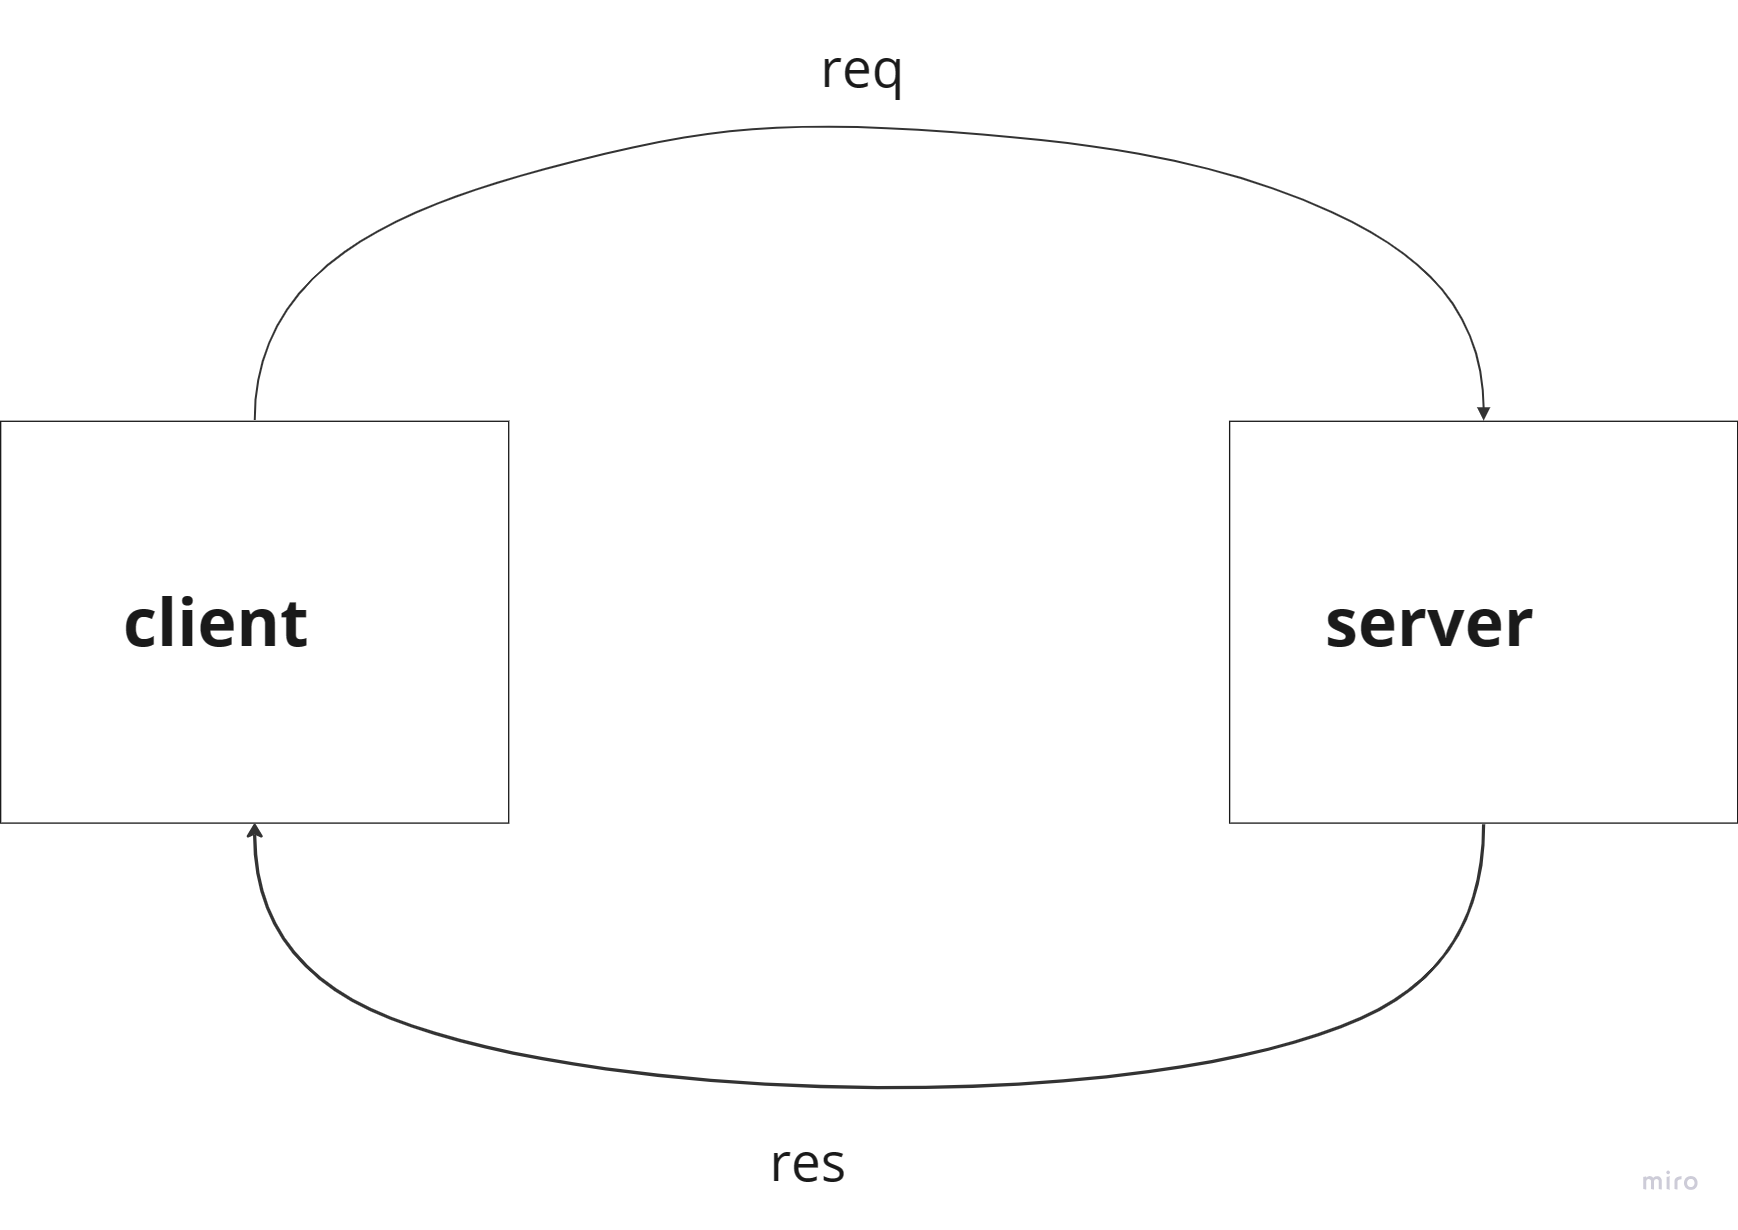
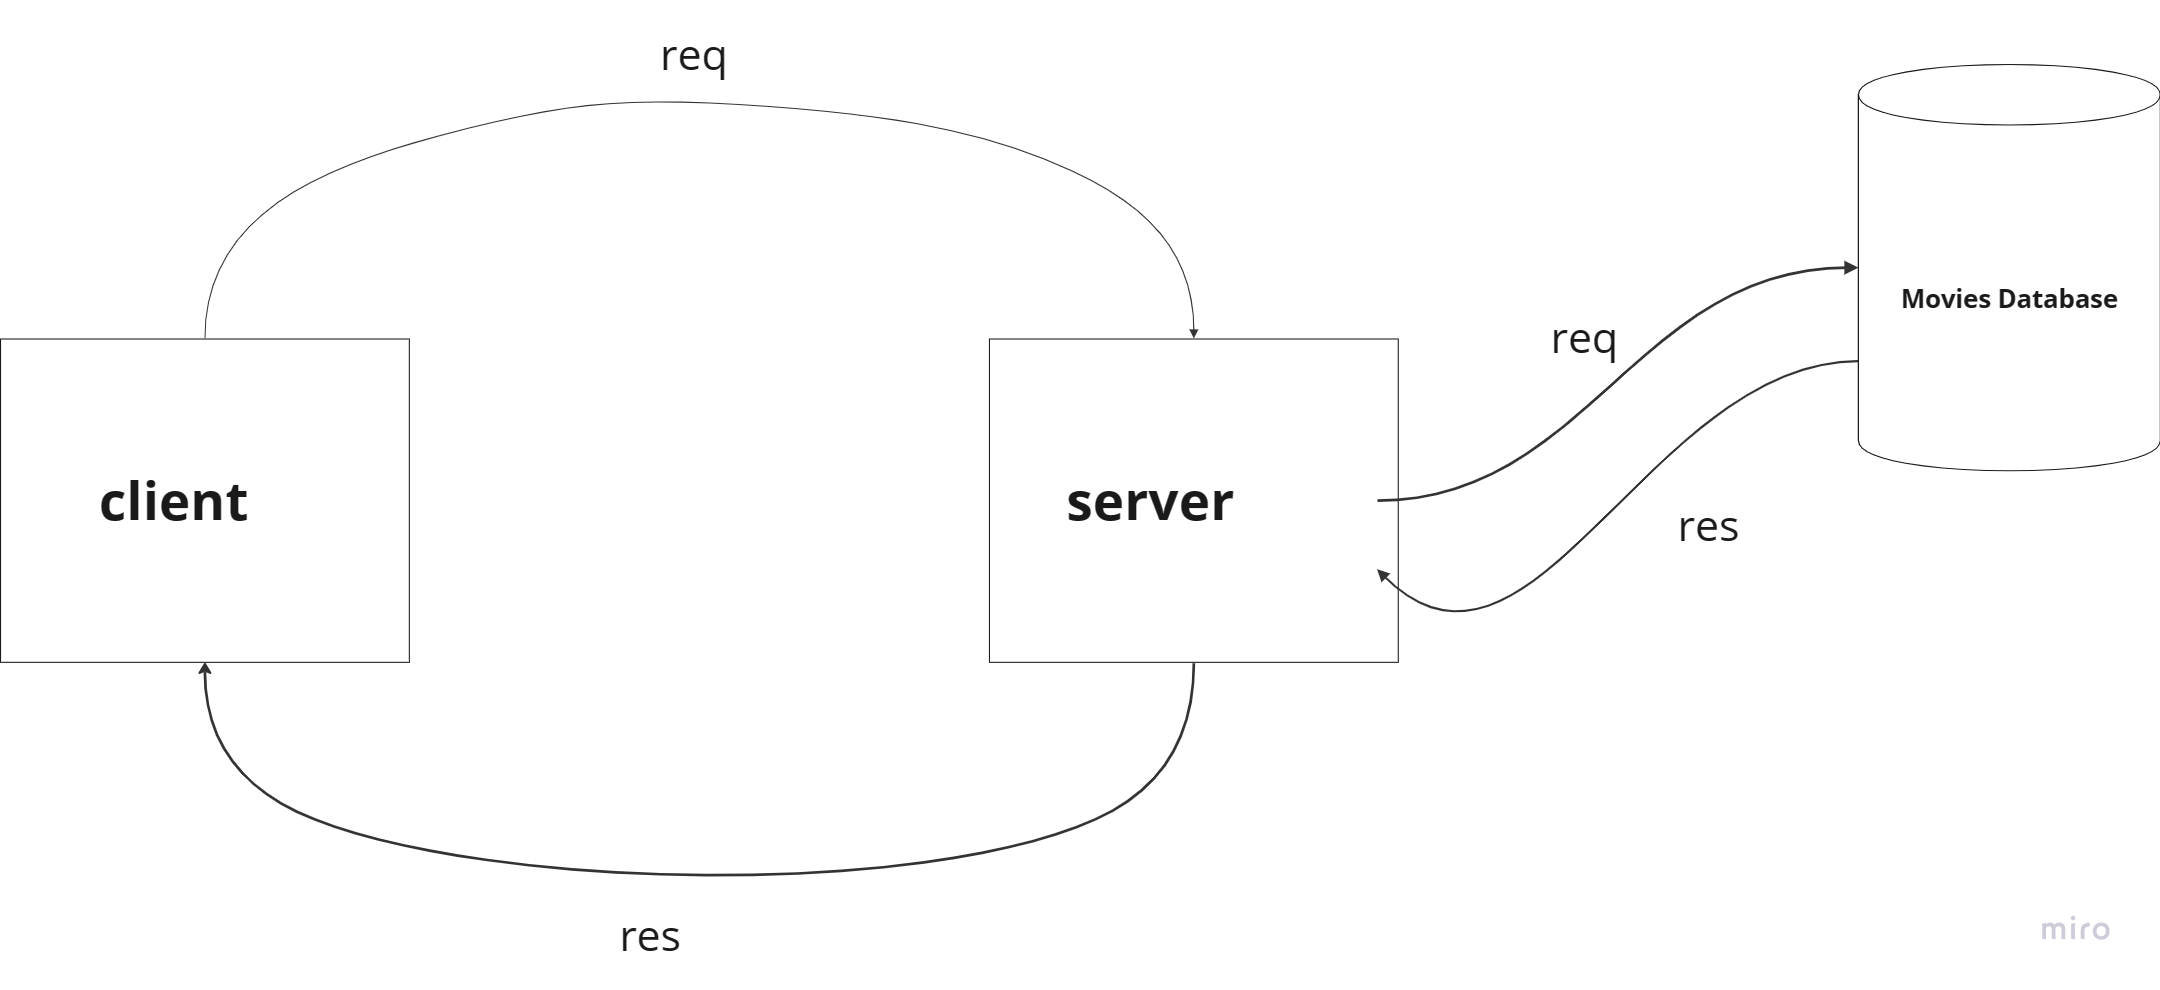
lab15

diff --git a/server.js b/server.js
@@ -11,6 +11,12 @@ const axios = require('axios');
 
 const apiKey = process.env.APIkey;
 
+////lab15
+server.use(express.json())
+
+const pg = require('pg');
+const client = new pg.Client(process.env.DATABASE_URL);
+
 //Routes
 
 // Home Route
@@ -26,6 +32,31 @@ server.get('/trending', trendinghandler);
 server.get('/search', searchHandler);
 server.get('/genre', genreHandler);
 server.get('/popular', popularHandler);
+////lab15
+server.get('/getMovies', getMoviesHandler);
+server.post('/getMovies', addMovieHandler);
+function getMoviesHandler(req, res) {
+    const sql = `SELECT * FROM ownMovies`;
+    client.query(sql)
+        .then(data => {
+            res.send(data.rows)
+        })
+        .catch(error => errorHandler(error, req, res))
+}
+function addMovieHandler(req, res) {
+    const movie = req.body;
+    console.log(movie);
+    const sql = `INSERT INTO ownMovies (title, release_date, poster_path, overview)
+    VALUES ($1, $2, $3, $4);`
+    const values = [movie.title, movie.release_date, movie.poster_path, movie.overview]; 
+    client.query(sql, values)
+    .then(data=>{
+        res.send("The data has been added successfully");
+    })
+    .catch((error)=>{
+        errorHandler(error,req,res)
+    })
+}
 
 
 server.get('*', notFoundHandler);
@@ -149,9 +180,13 @@ function Genre(id, name) {
     this.id = id;
     this.name = name;
 }
-server.listen(PORT, () => {
-    console.log(`listening on ${PORT} i am ready`)
-})
+client.connect()
+    .then(() => {
+        server.listen(PORT, () => {
+            console.log(`listening on ${PORT} i am ready`)
+        })
+    })
+
 
 
 

diff --git a/README.md b/README.md
@@ -1,4 +1,4 @@
-# Movies-Library - 02
+# Movies-Library - 03
 
 **Author Name**: Hadeel Nafez lafi
 
@@ -20,10 +20,15 @@ To run this app on your own machine, you can follow these steps:
 
 3. Install reqired pakeges :
 
-- npm install express cors dotnev axios npm
-- npm install -g nodemon
+- npm i
 
 4. Start the server by running  nodemon server
+
+5.Creat database called "movies"
+
+note dont forget to run :
+psql -d movies -f schema.sql
+
 
 ## Project Features
 
@@ -31,4 +36,5 @@ The app has the following features:
 
 - Displays a list of movies from a JSON file.
 - View various pages for movies such as Trending, Popular, Search, and View the Genres of movies.
+- Add movies & display them
 - Handles some errors that the user may face.
